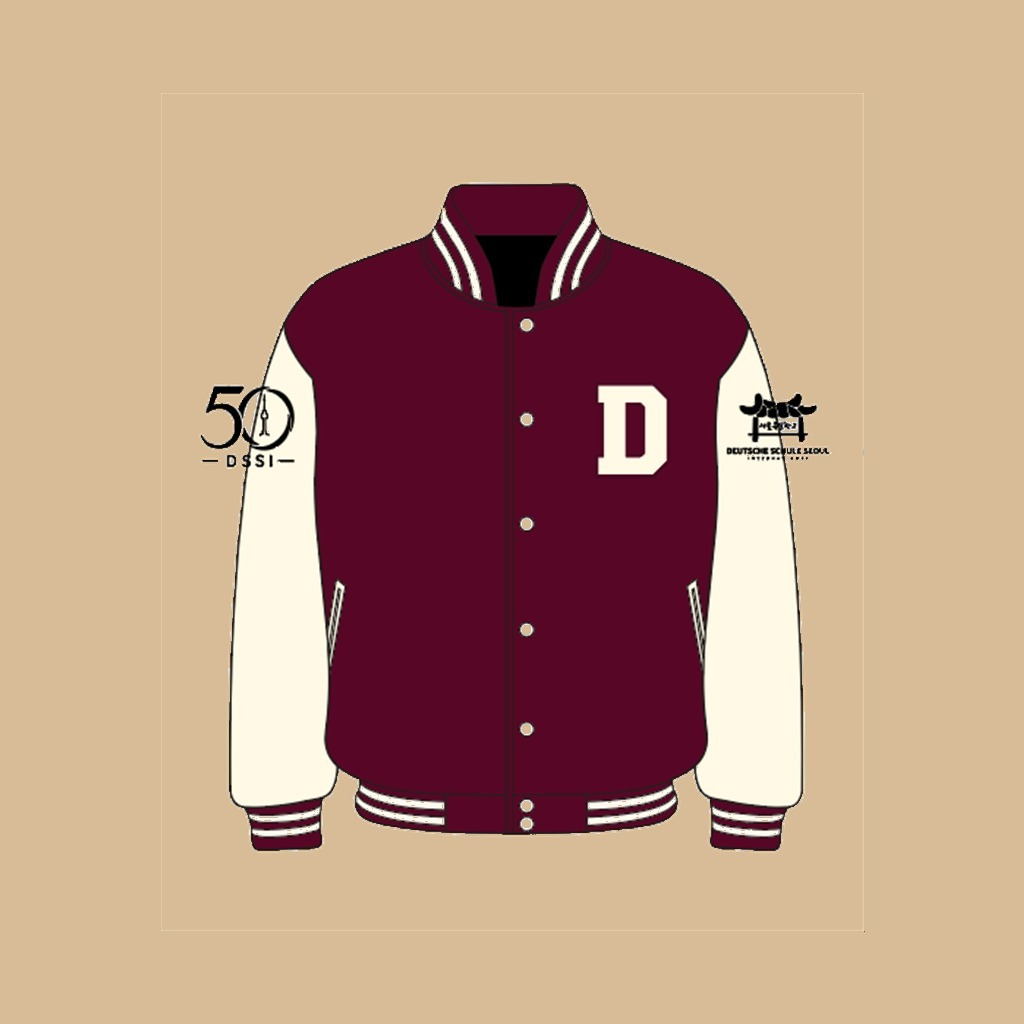
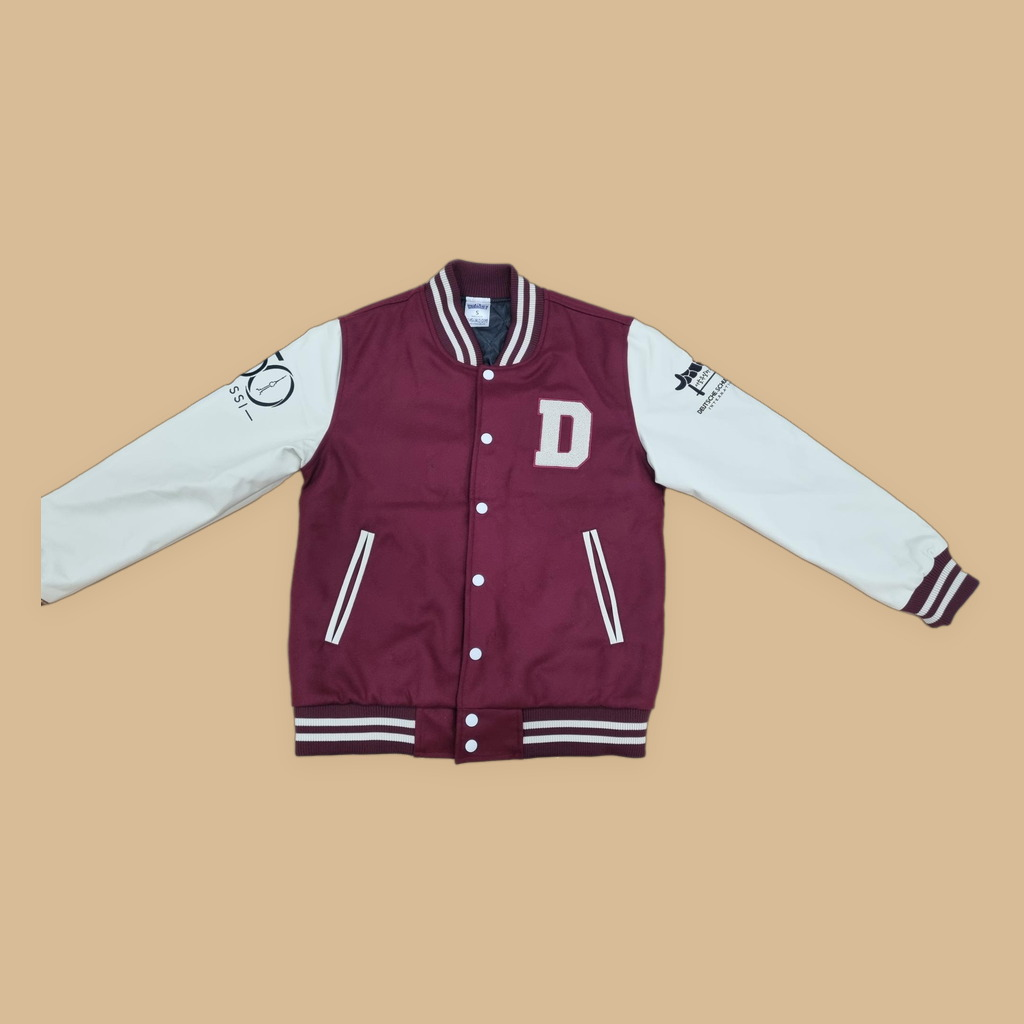
Add files via upload

diff --git a/index.html b/index.html
@@ -338,34 +338,18 @@
           </div>
 
           <!-- School Jacket -->
-          <div class="sm:col-span-2 md:col-span-2">
+          <div>
             <div class="font-semibold mb-1 text-blue-800">Schuljacke 50th Anniversary</div>
-            <div class="grid grid-cols-1 sm:grid-cols-2 gap-3">
-              <div>
-                <div class="text-[10px] font-semibold text-slate-600 mb-1">Female cut (body height cm)</div>
-                <table class="w-full text-[10px] border border-slate-200">
-                  <thead class="bg-slate-100"><tr><th class="p-1 text-left">Size</th><th class="p-1">Height (cm)</th></tr></thead>
-                  <tbody class="font-mono">
-                    <tr class="border-t"><td class="p-1">Female S</td><td class="p-1">150–160</td></tr>
-                    <tr class="border-t"><td class="p-1">Female M</td><td class="p-1">155–170</td></tr>
-                    <tr class="border-t"><td class="p-1">Female L</td><td class="p-1">160–175</td></tr>
-                  </tbody>
-                </table>
-              </div>
-              <div>
-                <div class="text-[10px] font-semibold text-slate-600 mb-1">Male cut (body height cm)</div>
-                <table class="w-full text-[10px] border border-slate-200">
-                  <thead class="bg-slate-100"><tr><th class="p-1 text-left">Size</th><th class="p-1">Height (cm)</th></tr></thead>
-                  <tbody class="font-mono">
-                    <tr class="border-t"><td class="p-1">Male M</td><td class="p-1">165–175</td></tr>
-                    <tr class="border-t"><td class="p-1">Male L</td><td class="p-1">170–180</td></tr>
-                    <tr class="border-t"><td class="p-1">Male XL</td><td class="p-1">175–189</td></tr>
-                    <tr class="border-t"><td class="p-1">Male 2XL</td><td class="p-1">175–189</td></tr>
-                  </tbody>
-                </table>
-              </div>
-            </div>
-            <div class="mt-2 text-[10px] text-slate-500">Female and Male are different cuts — please choose carefully.</div>
+            <table class="w-full text-[10px] border border-slate-200">
+              <thead class="bg-slate-100"><tr><th class="p-1 text-left">Size</th><th class="p-1">Height (cm)</th></tr></thead>
+              <tbody class="font-mono">
+                <tr class="border-t"><td class="p-1">S</td><td class="p-1">150–160</td></tr>
+                <tr class="border-t"><td class="p-1">M</td><td class="p-1">155–175</td></tr>
+                <tr class="border-t"><td class="p-1">L</td><td class="p-1">170–180</td></tr>
+                <tr class="border-t"><td class="p-1">XL</td><td class="p-1">175–189</td></tr>
+                <tr class="border-t"><td class="p-1">2XL</td><td class="p-1">175–189</td></tr>
+              </tbody>
+            </table>
           </div>
 
           <!-- Mug Cup -->
@@ -375,7 +359,7 @@
           </div>
         </div>
         <div class="mt-4 text-xs text-slate-500 px-1">
-          T-Shirt / Polo / Hoodie: approximate body height. Schuljacke: recommended body height (cm) by gender. Mug Cup is One Size.
+          T-Shirt / Polo / Hoodie: approximate body height. Schuljacke: recommended body height (cm). Mug Cup is One Size.
         </div>
       </div>
       <div class="px-5 py-3 bg-slate-50 border-t text-right">
@@ -448,7 +432,7 @@
     // Changing ASSET_VERSION forces fresh downloads of logo + all product images.
     // For the index.html itself, tell users to press Ctrl+Shift+R (hard refresh) once
     // after a deploy — this is the most reliable cross-browser way.
-    const ASSET_VERSION = '20260820i';   // YYYYMMDD — bump on every significant deploy
+    const ASSET_VERSION = '20261003a';   // YYYYMMDD — bump on every significant deploy
 
     // Set versioned logo src for cache busting (must happen after DOM is ready for this element)
     function setVersionedAssets() {
@@ -484,6 +468,8 @@
         year: "Year",
         size: "Size",
         quantity: "Qty",
+        prevPhoto: "Previous photo",
+        nextPhoto: "Next photo",
         checkoutTitle: "Complete Your Order",
         checkoutSubtitle: "Payment instructions will be emailed to you",
         firstNameLabel: "Your First Name",
@@ -553,6 +539,8 @@
         year: "Jahr",
         size: "Größe",
         quantity: "Menge",
+        prevPhoto: "Vorheriges Foto",
+        nextPhoto: "Nächstes Foto",
         checkoutTitle: "Bestellung abschließen",
         checkoutSubtitle: "Zahlungsanweisungen werden Ihnen per E-Mail zugesandt",
         firstNameLabel: "Ihr Vorname",
@@ -622,6 +610,8 @@
         year: "연도",
         size: "사이즈",
         quantity: "수량",
+        prevPhoto: "이전 사진",
+        nextPhoto: "다음 사진",
         checkoutTitle: "주문 완료하기",
         checkoutSubtitle: "결제 안내가 이메일로 전송됩니다",
         firstNameLabel: "이름",
@@ -1335,9 +1325,9 @@
         ],
         sizes: ['110', '120', '130', '140', '150', '160', 'S', 'M', 'L', 'XL', 'XXL', 'XXXL'],
         noteShort: {
-          en: "If ordered by 6 September, handover at the secretariat before Oktoberfest on 19 September.",
-          de: "Bei Bestellungen bis zum 6.9. erfolgt die Übergabe beim Sekretariat vor dem Oktoberfest am 19.9.",
-          ko: "9월 6일까지 주문 시 9월 19일 옥토버페스트 전 사무국에서 인도됩니다."
+          en: "If ordered by 15 November, handover at the secretariat before the Christmas holidays.",
+          de: "Bei Bestellungen bis zum 15.11. erfolgt die Übergabe beim Sekretariat vor den Weihnachtsferien.",
+          ko: "11월 15일까지 주문 시 크리스마스 방학 전 사무국에서 인도됩니다."
         }
       },
       {
@@ -1363,9 +1353,9 @@
         ],
         sizes: ['110', '120', '130', '140', '150', '160', 'S', 'M', 'L', 'XL', 'XXL', 'XXXL'],
         noteShort: {
-          en: "If ordered by 6 September, handover at the secretariat before Oktoberfest on 19 September.",
-          de: "Bei Bestellungen bis zum 6.9. erfolgt die Übergabe beim Sekretariat vor dem Oktoberfest am 19.9.",
-          ko: "9월 6일까지 주문 시 9월 19일 옥토버페스트 전 사무국에서 인도됩니다."
+          en: "If ordered by 15 November, handover at the secretariat before the Christmas holidays.",
+          de: "Bei Bestellungen bis zum 15.11. erfolgt die Übergabe beim Sekretariat vor den Weihnachtsferien.",
+          ko: "11월 15일까지 주문 시 크리스마스 방학 전 사무국에서 인도됩니다."
         }
       },
       {
@@ -1385,9 +1375,9 @@
         ],
         sizes: ['XS', 'S', 'M', 'L', 'XL', 'XXL', 'XXXL'],
         noteShort: {
-          en: "If ordered by 6 September, handover at the secretariat before Oktoberfest on 19 September.",
-          de: "Bei Bestellungen bis zum 6.9. erfolgt die Übergabe beim Sekretariat vor dem Oktoberfest am 19.9.",
-          ko: "9월 6일까지 주문 시 9월 19일 옥토버페스트 전 사무국에서 인도됩니다."
+          en: "If ordered by 15 November, handover at the secretariat before the Christmas holidays.",
+          de: "Bei Bestellungen bis zum 15.11. erfolgt die Übergabe beim Sekretariat vor den Weihnachtsferien.",
+          ko: "11월 15일까지 주문 시 크리스마스 방학 전 사무국에서 인도됩니다."
         }
       },
       {
@@ -1407,9 +1397,9 @@
         ],
         sizes: ['S', 'M', 'L', 'XL', 'XXL', 'XXXL', 'XXXXL'],
         noteShort: {
-          en: "If ordered by 6 September, handover at the secretariat before Oktoberfest on 19 September.",
-          de: "Bei Bestellungen bis zum 6.9. erfolgt die Übergabe beim Sekretariat vor dem Oktoberfest am 19.9.",
-          ko: "9월 6일까지 주문 시 9월 19일 옥토버페스트 전 사무국에서 인도됩니다."
+          en: "If ordered by 15 November, handover at the secretariat before the Christmas holidays.",
+          de: "Bei Bestellungen bis zum 15.11. erfolgt die Übergabe beim Sekretariat vor den Weihnachtsferien.",
+          ko: "11월 15일까지 주문 시 크리스마스 방학 전 사무국에서 인도됩니다."
         }
       },
       {
@@ -1418,26 +1408,19 @@
         price: 65000,
         name: { en: 'Schuljacke 50th Anniversary', de: 'Schuljacke 50th Anniversary', ko: 'Schuljacke 50th Anniversary' },
         desc: {
-          en: 'Windbreaker style • Mock-up, final design may vary slightly • Female & Male cuts',
-          de: 'Windbreaker-Stil • Mock-Up, finales Design kann leicht abweichen • Schnitte Female & Male',
-          ko: '윈드브레이커 스타일 • Mock-Up, 최종 디자인은 약간 다를 수 있음 • Female & Male 핏'
+          en: 'Windbreaker style • Front and back view',
+          de: 'Windbreaker-Stil • Vorder- und Rückansicht',
+          ko: '윈드브레이커 스타일 • 앞면과 뒷면'
         },
         colors: [
           { id: 'black', name: { en: 'Black', de: 'Schwarz', ko: '블랙' } }
         ],
-        sizes: [
-          'Female S',
-          'Female M',
-          'Female L',
-          'Male M',
-          'Male L',
-          'Male XL',
-          'Male 2XL'
-        ],
+        images: ['jacket.jpg', 'jacket-back.jpg'],
+        sizes: ['S', 'M', 'L', 'XL', '2XL'],
         noteShort: {
-          en: "Made to order. If ordered by 6 September, handover by class trip week.",
-          de: "Sonderanfertigung. Bei Bestellung bis zum 6.9. erfolgt die Übergabe bis zur Klassenfahrtswoche",
-          ko: "특별 제작. 9월 6일까지 주문 시 수학여행 주간까지 인도됩니다."
+          en: "If ordered by 15 November, handover at the secretariat before the Christmas holidays.",
+          de: "Bei Bestellungen bis zum 15.11. erfolgt die Übergabe beim Sekretariat vor den Weihnachtsferien.",
+          ko: "11월 15일까지 주문 시 크리스마스 방학 전 사무국에서 인도됩니다."
         }
       },
       {
@@ -1588,6 +1571,14 @@
       const before = cart.length
       cart = cart.filter(item => !OUT_OF_STOCK_IDS.includes(item.productId))
       if (cart.length !== before) changed = true
+
+      // Drop lines whose size is no longer offered (e.g. old Female/Male jacket sizes)
+      cart = cart.filter(item => {
+        const prod = getProduct(item.productId)
+        if (!prod || !prod.sizes || prod.sizes.includes(item.size)) return true
+        changed = true
+        return false
+      })
 
       // Cap quantities to listed inventory (e.g. after admin reduced stock)
       const remainingByKey = {}
@@ -1862,6 +1853,31 @@
       }
     }
 
+    function productImageList(product) {
+      return (product.images && product.images.length) ? product.images : [product.image]
+    }
+
+    function stepProductGallery(btn, delta) {
+      const gallery = btn.closest('.product-gallery')
+      if (!gallery) return
+      const images = (gallery.dataset.images || '').split('|').filter(Boolean)
+      if (images.length < 2) return
+      let i
+      if (btn.dataset.dot !== undefined) {
+        i = parseInt(btn.dataset.dot, 10) || 0
+      } else {
+        i = (parseInt(gallery.dataset.index || '0', 10) + delta + images.length) % images.length
+      }
+      gallery.dataset.index = String(i)
+      const img = gallery.querySelector('.product-photo')
+      if (img) img.src = `${images[i]}?v=${ASSET_VERSION}`
+      gallery.querySelectorAll('[data-dot]').forEach(dot => {
+        const on = parseInt(dot.dataset.dot, 10) === i
+        dot.classList.toggle('bg-white', on)
+        dot.classList.toggle('bg-white/50', !on)
+      })
+    }
+
     // ==================== PRODUCT CARDS ====================
     function renderProducts() {
       const grid = document.getElementById('products-grid')
@@ -1916,11 +1932,26 @@
         const selectedAvail = getAvailableStock(product.id, selectedColorId)
         const qtyMax = selectedAvail !== null ? Math.max(0, Math.min(20, selectedAvail)) : 20
         const qtyVal = qtyMax > 0 ? 1 : 0
+        const photos = productImageList(product)
+        const galleryNav = photos.length > 1 ? `
+            <button type="button" onclick="stepProductGallery(this, -1)" aria-label="${t('prevPhoto')}"
+                    class="absolute left-2 top-1/2 -translate-y-1/2 z-10 w-10 h-10 rounded-full bg-white/90 text-slate-700 shadow border border-white flex items-center justify-center hover:bg-white">
+              <i class="fa-solid fa-chevron-left text-sm"></i>
+            </button>
+            <button type="button" onclick="stepProductGallery(this, 1)" aria-label="${t('nextPhoto')}"
+                    class="absolute right-2 top-1/2 -translate-y-1/2 z-10 w-10 h-10 rounded-full bg-white/90 text-slate-700 shadow border border-white flex items-center justify-center hover:bg-white">
+              <i class="fa-solid fa-chevron-right text-sm"></i>
+            </button>
+            <div class="absolute bottom-3 left-0 right-0 flex justify-center gap-1.5 z-10">
+              ${photos.map((_, idx) => `<button type="button" data-dot="${idx}" onclick="stepProductGallery(this, 0)" aria-label="${idx + 1}" class="w-2 h-2 rounded-full ${idx === 0 ? 'bg-white' : 'bg-white/50'} shadow"></button>`).join('')}
+            </div>
+        ` : ''
 
         card.innerHTML = `
-          <div class="aspect-square bg-slate-100 relative">
-            <img src="${product.image}?v=${ASSET_VERSION}" class="w-full h-full object-cover" alt="${product.name.en}">
-            <div class="absolute top-3 right-3 bg-white/90 backdrop-blur px-2.5 py-0.5 rounded-full text-xs font-semibold shadow text-emerald-700 border border-white">
+          <div class="aspect-square bg-slate-100 relative product-gallery" data-index="0" data-images="${photos.join('|')}">
+            <img src="${photos[0]}?v=${ASSET_VERSION}" class="product-photo w-full h-full object-cover" alt="${product.name.en}">
+            ${galleryNav}
+            <div class="absolute top-3 right-3 z-20 bg-white/90 backdrop-blur px-2.5 py-0.5 rounded-full text-xs font-semibold shadow text-emerald-700 border border-white">
               ${formatPrice(product.price)}
             </div>
           </div>
